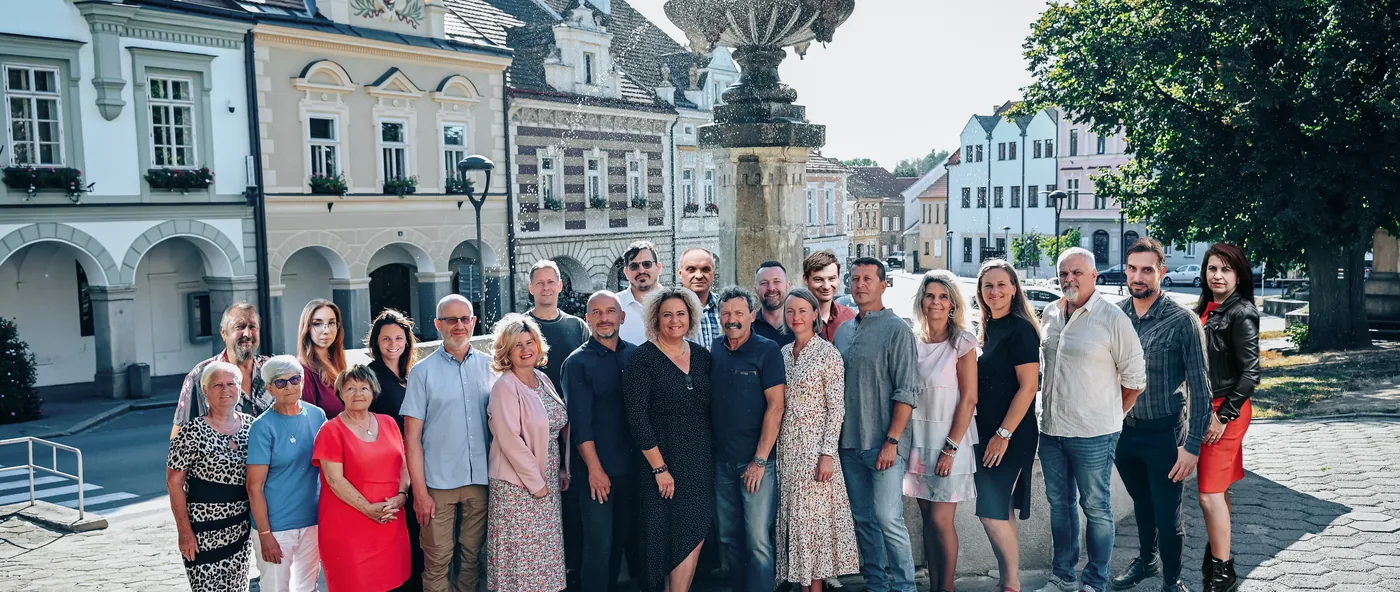
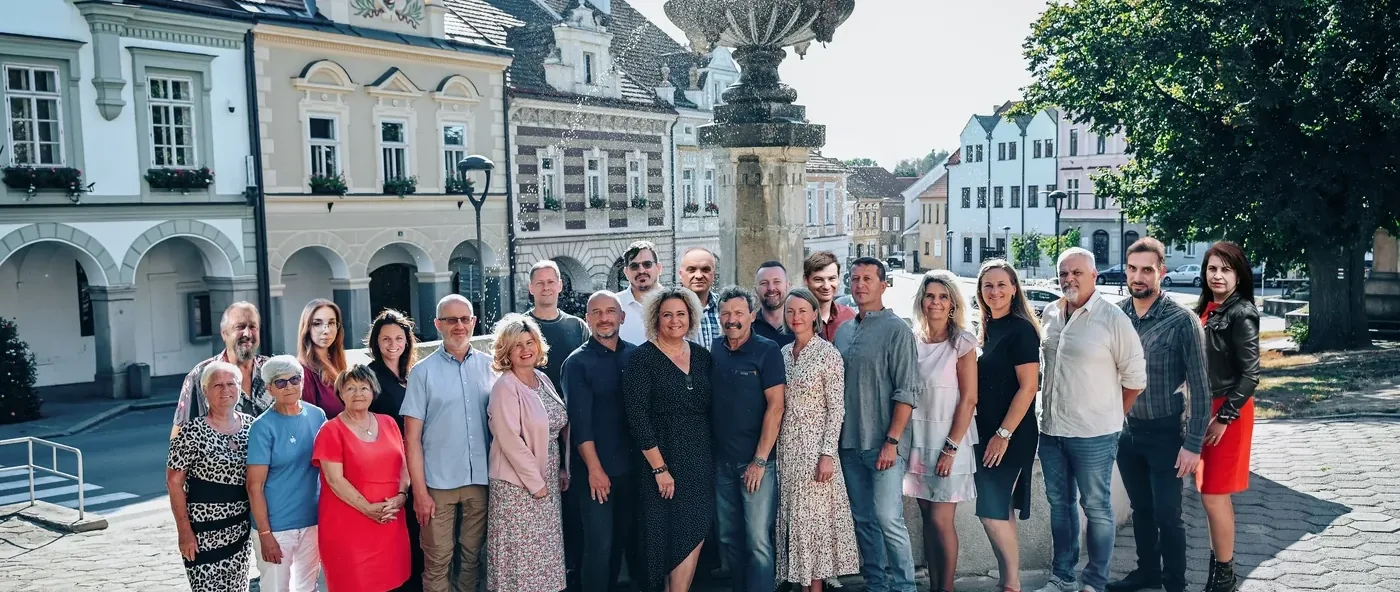
Vyretušovaná společná fotka
Petr Šíma dosadil na fotku nohy a stíny dvou digitálně přidaných lidí
vpravo. Rámování zůstává stejné — retuš vznikla na předchozím ořezu, který
byl o 33 px vyšší, takže se o ně nová předloha zkracuje shora i zdola.
Rozdíl proti minulé fotce je jen u těch dvou postav, jinde sedí pixel
na pixel.

Předloha je tentokrát 1400 px široká, ne šest tisíc, takže varianty
spolecna-2000 a -2600 nevznikly. Z toho plynou dvě úpravy, aby web ani
tiskoviny nesahaly po souborech, které tam nejsou:

- tools/fotky.py po sobě uklidí varianty, na které předloha nestačí. Kdyby
  po starší fotce zůstaly ležet, srcset by míchal dvě různé fotky podle
  toho, jak široké má kdo okno.
- Úvodní stránka i generátory tiskovin se ptají, co na disku opravdu je
  (`sirky()` v src/obrazky.js, `spolecna()` v tools/tiskoviny.py), místo aby
  spoléhaly na pevný seznam šířek.

Na obálce letáku tím fotka klesla na 183 dpi. Pro tisk to snese, ale až
bude retuš ve zdrojovém rozlišení, stačí ji prohnat tools/fotky.py znovu.

diff --git a/src/pages/Home.jsx b/src/pages/Home.jsx
@@ -4,13 +4,14 @@ import Prose from '../components/Prose'
 import Galerie from '../components/Galerie'
 import IkonaSekce from '../components/IkonaSekce'
 import Znak from '../components/Znak'
-import { obrazek } from '../obrazky'
+import { obrazek, sirky } from '../obrazky'
 import { web } from '../data/web'
 import stranky from '../data/stranky.json'
 import program from '../data/program.json'
 
-// Šířky, ve kterých tools/fotky.py ukládá společnou fotku
-const SIRKY_SPOLECNA = [800, 1400, 2000, 2600]
+// Šířky, ve kterých společná fotka opravdu je — podle toho, jak velkou
+// předlohu jsme dostali
+const SIRKY_SPOLECNA = sirky('spolecna')
 
 // Úvodní odstavec putuje nad fotku jako perex, zbytek zůstává v textovém
 // bloku níž — ať se stejná věta neopakuje dvakrát.
@@ -37,7 +38,7 @@ export default function Home() {
           v barevném zmatku fasád. */}
       <div className="uvodni-fotka">
         <img
-          src={obrazek('spolecna-1400.webp')}
+          src={obrazek(`spolecna-${SIRKY_SPOLECNA.at(-1)}.webp`)}
           srcSet={SIRKY_SPOLECNA.map((w) => `${obrazek(`spolecna-${w}.webp`)} ${w}w`).join(', ')}
           sizes="100vw"
           alt={`Kandidáti sdružení ${web.nazev} ${web.mesto}`}

diff --git a/src/obrazky.js b/src/obrazky.js
@@ -25,6 +25,22 @@ export function obrazek(jmeno) {
 }
 
 /**
+ * Šířky, ve kterých je fotka opravdu na disku — vzestupně.
+ *
+ * Nevypisují se ručně: `tools/fotky.py` vyrobí jen ty varianty, na které
+ * předloha stačí, a větší po sobě uklidí. Pevný seznam by po výměně fotky
+ * za menší předlohu sázel do srcsetu adresy, které neexistují.
+ */
+export function sirky(zaklad) {
+  const vzor = new RegExp(`^${zaklad}-(\\d+)\\.webp$`)
+  return Object.keys(mapa)
+    .map((jmeno) => vzor.exec(jmeno)?.[1])
+    .filter(Boolean)
+    .map(Number)
+    .sort((a, b) => a - b)
+}
+
+/**
  * Přepíše cesty v HTML přeneseném ze starého webu (`src="obrazky/foto.jpg"`)
  * na hashované URL.
  */

diff --git a/tools/letak.py b/tools/letak.py
@@ -17,7 +17,7 @@ from pathlib import Path
 sys.path.insert(0, str(Path(__file__).resolve().parent))
 import qr
 from tiskoviny import (KOREN, OBRAZKY, STYL_ZNACKY, bez_znacek, dataurl, do_pdf,
-                       fonty, ikona, logo, nacti, nacti_web, znak, zmer)
+                       fonty, ikona, logo, nacti, nacti_web, spolecna, znak, zmer)
 
 # Fotky kandidátů na letáku vycházejí kolem 35 mm, u tisku 300 dpi to je
 # zhruba 415 px — osmistovka má rezervu a zároveň nenafoukne PDF.
@@ -238,7 +238,7 @@ def hlavicka(web: dict, id_prechodu: str) -> str:
 
 
 def strana_obalka(web, kandidati, uvod) -> str:
-    spolecna = OBRAZKY / 'spolecna-2600.webp'
+    fotka = spolecna()
     # Části obce bez skloňování — na obálce to funguje jako popiska.
     # Trhové Sviny patří na začátek, zbytek abecedně.
     casti = sorted({k['cast'] for k in kandidati})
@@ -247,7 +247,7 @@ def strana_obalka(web, kandidati, uvod) -> str:
   {hlavicka(web, 'obalka')}
   <h1 class="obalka__nadpis">Záleží nám<br>na našem městě.</h1>
   <p class="obalka__perex">{uvod}</p>
-  <div class="obalka__foto"><img src="{dataurl(spolecna, 'image/webp')}" alt=""></div>
+  <div class="obalka__foto"><img src="{dataurl(fotka, 'image/webp')}" alt=""></div>
 
   <div class="obalka__dole">
     <div>

diff --git a/tools/plakat.py b/tools/plakat.py
@@ -22,7 +22,7 @@ sys.path.insert(0, str(Path(__file__).resolve().parent))
 import qr
 from tiskoviny import (CERVENA, INKOUST, KOREN, OBRAZKY, ORANZOVA, PLOCHA, PRECHOD,
                        STYL_ZNACKY, ZLUTA, dataurl, do_pdf, fonty, ikona, logo,
-                       nacti, nacti_web, znak, zmer)
+                       nacti, nacti_web, spolecna, znak, zmer)
 
 ADRESA = 'https://volbats.cz/'
 SIRKA_PORTRETU = 400   # na plakátu vychází portrét kolem 22 mm
@@ -208,7 +208,7 @@ def plakat_temata(web, kandidati, plakat) -> str:
     <div class="tema__text">{t['text']}</div>
   </div>
 </div>"""
-    fotka = OBRAZKY / 'spolecna-2000.webp'
+    fotka = spolecna()
     return f"""<div class="strana">
   {zahlavi(web, plakat['nadpis'])}
   <div class="temata">{temata}</div>
@@ -241,7 +241,7 @@ def plakat_lide(web, kandidati, plakat) -> str:
 
 def plakat_fotka(web, kandidati, plakat) -> str:
     """Společná fotka přes celou plochu a claim."""
-    fotka = OBRAZKY / 'spolecna-2000.webp'
+    fotka = spolecna()
     return f"""<div class="strana">
   {zahlavi(web, 'Komunální volby')}
   <h1 style="font-size:27pt;margin-top:5mm">Záleží nám<br>na našem městě.</h1>

diff --git a/tools/fotky.py b/tools/fotky.py
@@ -57,10 +57,14 @@ def uprav_spolecnou(zdroj: Path, nahore: int = 0, dole: int | None = None) -> li
 
     vytvorene = []
     for sirka in SIRKY_SPOLECNA:
+        jmeno = f'spolecna-{sirka}.webp'
         if sirka > im.width:
+            # Na tuhle šířku předloha nestačí. Zvětšovat nemá smysl, ale
+            # nechat tu ležet variantu z minulé předlohy taky ne — srcset by
+            # míchal dvě různé fotky podle toho, jak široké má kdo okno.
+            (CIL / jmeno).unlink(missing_ok=True)
             continue
         vyska = round(im.height * sirka / im.width)
-        jmeno = f'spolecna-{sirka}.webp'
         im.resize((sirka, vyska), Image.LANCZOS).save(
             CIL / jmeno, 'WEBP', quality=KVALITA, method=6)
         vytvorene.append(jmeno)

diff --git a/tools/tiskoviny.py b/tools/tiskoviny.py
@@ -141,6 +141,19 @@ def ikona(slug: str, velikost_mm: float, id_prechodu: str) -> str:
   </linearGradient></defs>{cesty}</svg>'''
 
 
+def spolecna() -> Path:
+    """Největší dostupná společná fotka.
+
+    Na jméno se nespoléhá: podle toho, jak velkou předlohu fotograf dodal,
+    nemusí ta největší varianta vůbec vzniknout (viz tools/fotky.py).
+    """
+    varianty = sorted(OBRAZKY.glob('spolecna-*.webp'),
+                      key=lambda c: int(c.stem.rsplit('-', 1)[1]))
+    if not varianty:
+        raise SystemExit('v src/obrazky/ není žádná spolecna-*.webp')
+    return varianty[-1]
+
+
 def bez_znacek(html: str) -> str:
     text = ' '.join(re.sub(r'<[^>]+>', ' ', html).split())
     # Po značkách zůstává mezera i tam, kde následuje interpunkce
